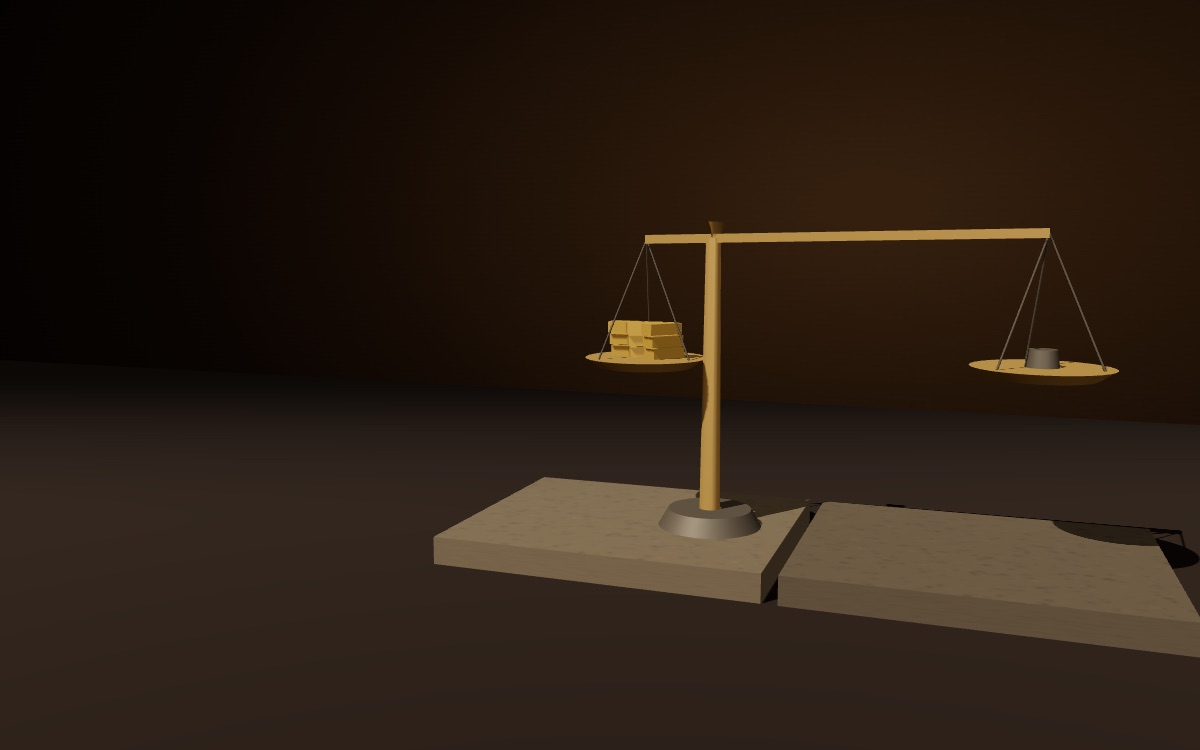
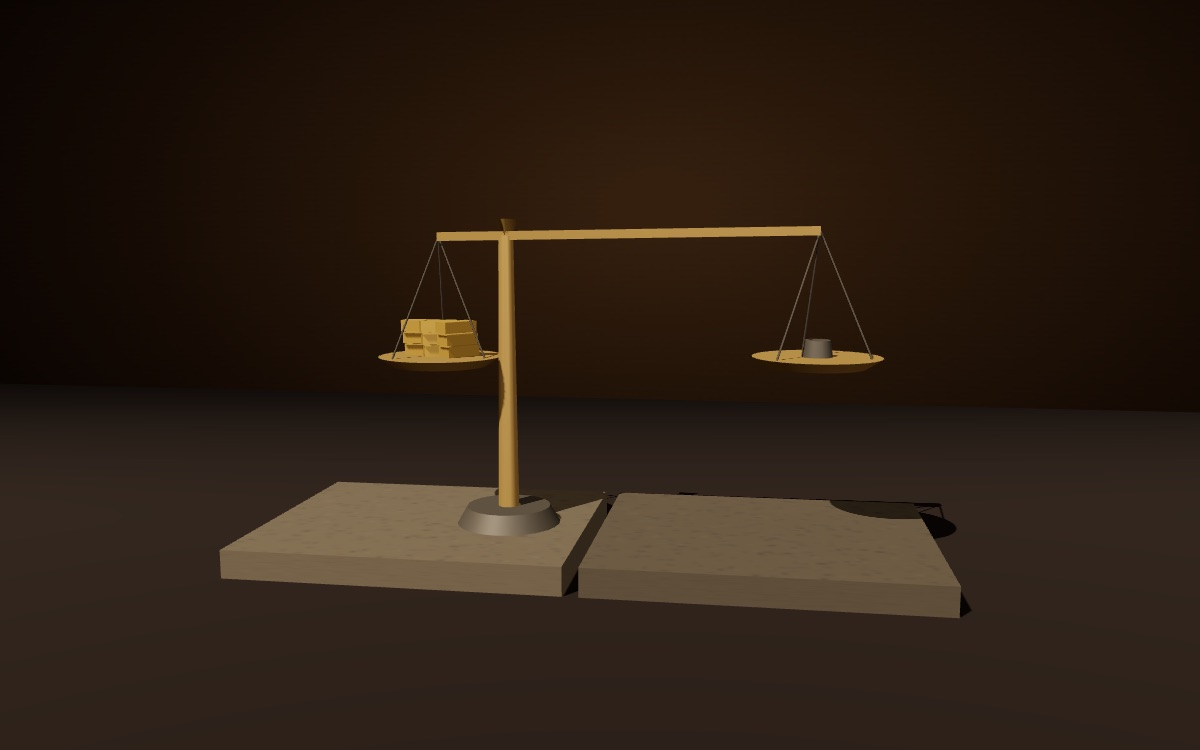
Glossaire : pouvoir-politique réécrite selon la charte, direction artistique « la Chambre des possédants »

Changed region(s): [[0.185, 0.276, 1.0, 0.8893], [0.8017, 0.4293, 0.925, 0.5213]]

diff --git a/glossaire/mondes/pouvoir-politique/essai.html b/glossaire/mondes/pouvoir-politique/essai.html
@@ -1,49 +1,94 @@
-<!-- L'ESSAI — le corps de /glossaire/pouvoir-politique. data-s="1" partout.
+<!-- L'ESSAI : le corps de /glossaire/pouvoir-politique. data-s="1" partout
+     (le Manifeste tient en une seule page Wikisource).
+     Réécrit en octobre 2026 selon glossaire/mondes/CHARTE.md.
      Deux phrases sont DÉLIBÉRÉMENT partagées avec /glossaire/lutte-des-classes :
      la définition du pouvoir politique et le « comité administratif ». Ce sont
-     les deux définitions de la notion, et la page les lit autrement — ici pour
-     ce qu'elles disent de l'État, là pour ce qu'elles disent de l'antagonisme.
-     La préface de 1872, La Guerre civile en France, les écrits sur la
-     dictature du prolétariat et l'Anti-Dühring ne sont pas servis :
-     paraphrasés et situés. -->
+     les deux définitions de la notion, et la page les lit pour ce qu'elles
+     disent de l'État, là pour ce qu'elles disent de l'antagonisme.
+     Sources des faits qui ne sont pas des citations liées :
+     - l'allemand du Manifeste (Staatsgewalt, gemeinschaftlichen Geschäfte der
+       ganzen Bourgeoisklasse, ausschließliche politische Herrschaft,
+       öffentliche / politische Gewalt) : de.wikisource, « Manifest der
+       Kommunistischen Partei (1848) », relu le 22 oct. 2026 ;
+     - la loi de dix heures (agitation depuis 1838, alliance des Tories,
+       Bright et Cobden, loi du 8 juin 1847, dix heures au 1er mai 1848, arrêt
+       de la cour de l'Échiquier du 8 février 1850) : Le Capital, ch. X, dans
+       le texte servi (section III) ;
+     - le cens de 1831 (200 F) et les 246 000 électeurs de 1847 : notice
+       « Suffrage censitaire » de Wikipédia ;
+     - la préface de 1872 et le premier décret de la Commune : Marxists
+       Internet Archive (préface de 1872 ; The Civil War in France, ch. V) ;
+     - le XVIII brumaire (la bureaucratie instrument de la classe dominante
+       sous Louis-Philippe, l'État qui « semble » indépendant sous Bonaparte,
+       la machine perfectionnée au lieu d'être brisée) : texte servi,
+       chapitre VII.
+     L'Anti-Dühring, La Guerre civile en France, la préface de 1872 et le
+     XVIII brumaire ne sont pas cités entre guillemets : paraphrasés. -->
 
 <section class="nt-sec" data-etape="arbitre" id="difficulte">
-<h2>L'arbitre qui n'en est pas un</h2>
-<p>L'État moderne se donne pour l'instance qui se tient au-dessus des intérêts particuliers&nbsp;: il fait les lois pour tous, garantit les droits de chacun, arbitre les conflits. Toute la difficulté de la notion est que le <i>Manifeste</i> ne conteste pas qu'il fasse tout cela, mais qu'il conteste qu'il le fasse depuis nulle part. La définition est donnée à la fin de la deuxième partie, et elle est d'une brièveté qui a fait sa fortune&nbsp;:</p>
+<h2>L'État n'est-il pas au-dessus des classes&nbsp;?</h2>
+<p class="nt-lead">C'est ainsi qu'il se présente&nbsp;: il fait la loi pour tous et tranche entre les intérêts. Le <i>Manifeste</i> lui oppose une définition de quelques mots, qui fait du pouvoir politique l'affaire d'une classe.</p>
+<p>L'État moderne se donne pour l'instance qui se tient au-dessus des intérêts particuliers. Il vote les lois, garantit les droits de chacun, juge les conflits, lève l'impôt au nom de tous. Le <i>Manifeste</i> lui accorde toutes ces fonctions et conteste seulement la place d'où il prétend les exercer. La définition arrive à la fin de la deuxième partie, «&nbsp;Prolétaires et communistes&nbsp;», et sa brièveté a fait sa fortune&nbsp;:</p>
 <blockquote data-s="1" data-q="Le pouvoir politique, à proprement parler, est le pouvoir organisé d’une classe pour l’oppression d’une autre"><p>Le pouvoir politique, à proprement parler, est le pouvoir organisé d’une classe pour l’oppression d’une autre.</p></blockquote>
-<p>Deux mots de la phrase portent l'argument. <i>À proprement parler</i>&nbsp;: le texte distingue le pouvoir politique du pouvoir public en général, c'est-à-dire de l'administration des affaires communes, que toute société un peu complexe exige. Ce qui est politique au sens strict, ce n'est pas qu'il y ait des règles et des gens pour les faire appliquer, c'est que cette fonction soit organisée au profit d'une classe contre une autre. <i>Organisé</i>, ensuite&nbsp;: le pouvoir d'une classe ne se réduit pas à la force ou à la richesse de ses membres pris un à un, il suppose une forme, des institutions, une permanence. Nous partirons de cette double précision, parce que c'est elle qui empêche de lire la définition comme une simple dénonciation.</p>
+<p>Deux expressions portent l'argument. La première est «&nbsp;à proprement parler&nbsp;». Le texte distingue le pouvoir politique du pouvoir public en général, c'est-à-dire de l'administration des affaires communes, que toute société un peu complexe exige&nbsp;: il faut des règles, des comptes, des routes, quelqu'un pour trancher. Ce qui rend ce pouvoir politique, au sens strict, c'est qu'il soit organisé au profit d'une classe contre une autre. L'allemand rend la distinction très visible. Il oppose <i lang="de">öffentliche Gewalt</i>, le pouvoir public, à <i lang="de">politische Gewalt</i>, et le mot <i lang="de">Gewalt</i> veut dire à la fois pouvoir, force et violence.</p>
+<p>La seconde expression est «&nbsp;organisé&nbsp;». Le pouvoir d'une classe ne se ramène pas à la richesse ou à la force de ses membres pris un à un. Il suppose des institutions, des fonctionnaires, une armée, une permanence. Cette double précision empêche de lire la définition comme une simple dénonciation. On la suivra dans l'ordre du texte&nbsp;: comment la bourgeoisie a conquis ce pouvoir, ce qu'elle en fait, pourquoi il lui arrive de céder, et ce que deviendrait le pouvoir une fois les classes abolies.</p>
 </section>
 
 <section class="nt-sec" data-etape="conquete" id="ou">
-<h2>Où le texte le pose&nbsp;: une conquête, et non une origine</h2>
-<p>Le pouvoir politique n'apparaît pas d'abord dans le <i>Manifeste</i> comme une définition, mais comme un enjeu de l'histoire de la bourgeoisie, et l'ordre est significatif. À chaque étape de son développement, la bourgeoisie a occupé une place politique différente — association se gouvernant elle-même dans la commune, tiers état taxable de la monarchie, contrepoids de la noblesse — jusqu'à ce que, depuis l'établissement de la grande industrie et du marché mondial, elle se soit <q data-s="1" data-q="enfin emparée du pouvoir politique">enfin emparée du pouvoir politique</q>, à l'exclusion des autres classes, dans l'État représentatif moderne. La phrase qui suit tire la conséquence&nbsp;:</p>
-<blockquote data-s="1" data-q="Le gouvernement moderne n’est qu’un comité administratif des affaires de la classe bourgeoise"><p>Le gouvernement moderne n’est qu’un comité administratif des affaires de la classe bourgeoise.</p></blockquote>
-<p>Le pouvoir est donc pris, et non donné&nbsp;: il a une histoire, et il suit celle de la production. Le texte en montre le ressort matériel un peu plus loin. En agglomérant les populations et en centralisant les moyens de production, la bourgeoisie a rendu nécessaire une concentration du pouvoir&nbsp;: <q data-s="1" data-q="La conséquence fatale de ces changements a été la centralisation politique">la conséquence fatale de ces changements a été la centralisation politique</q>, et des provinces jusque-là indépendantes ont été réunies en une seule nation, <q data-s="1" data-q="sous un seul gouvernement, une seule loi, un seul tarif douanier et un seul intérêt national de classe">sous un seul gouvernement, une seule loi, un seul tarif douanier et un seul intérêt national de classe</q>. La dernière expression condense toute la notion&nbsp;: l'intérêt est national par sa forme, il est de classe par son contenu.</p>
+<h2>Comment la bourgeoisie est-elle arrivée au pouvoir politique&nbsp;?</h2>
+<p class="nt-lead">Par une conquête, au terme d'une longue montée économique. Le <i>Manifeste</i> raconte cette histoire dans sa première partie, bien avant de donner sa définition.</p>
+<p>Le pouvoir politique apparaît d'abord dans le texte comme l'enjeu d'une histoire. À chaque étape de son développement économique, la bourgeoisie a occupé une place politique différente. Elle a été une association qui se gouvernait elle-même dans la commune du Moyen Âge, puis le tiers état que la monarchie taxait, puis le contrepoids de la noblesse dans les monarchies absolues. Depuis l'établissement de la grande industrie et du marché mondial, elle s'est <q data-s="1" data-q="enfin emparée du pouvoir politique">enfin emparée du pouvoir politique</q>, à l'exclusion des autres classes, dans l'État représentatif moderne. L'original allemand est plus net que la traduction&nbsp;: il parle d'une domination politique exclusive, <i lang="de">ausschließliche politische Herrschaft</i>.</p>
+<p>Le pouvoir a donc été pris, et il a suivi la production. Le texte en montre le ressort matériel un peu plus loin. En agglomérant les populations et en centralisant les moyens de production, la bourgeoisie a rendu nécessaire une concentration du pouvoir&nbsp;: <q data-s="1" data-q="La conséquence fatale de ces changements a été la centralisation politique">la conséquence fatale de ces changements a été la centralisation politique</q>. Des provinces qui avaient leurs lois et leurs douanes ont été réunies en une seule nation, <q data-s="1" data-q="sous un seul gouvernement, une seule loi, un seul tarif douanier et un seul intérêt national de classe">sous un seul gouvernement, une seule loi, un seul tarif douanier et un seul intérêt national de classe</q>. La dernière expression résume la notion. L'intérêt est national par sa forme, puisqu'il vaut pour tout le territoire, et il est de classe par son contenu.</p>
+<p>Le lecteur de 1848 avait sous les yeux un exemple de cet État représentatif. Sous la monarchie de Juillet, une loi de 1831 réservait le droit de vote aux hommes qui payaient au moins deux cents francs d'impôt direct&nbsp;: la France comptait environ 246&nbsp;000 électeurs en 1847. La Chambre que Daumier caricature en tête de cette page était élue par eux&nbsp;: ses députés représentaient la minorité qui payait le cens, c'est-à-dire surtout des possédants.</p>
 </section>
 
 <section class="nt-sec" data-etape="comite" id="distinction">
-<h2>La distinction&nbsp;: l'instrument et le comité</h2>
-<p>La phrase du comité a été lue de deux façons opposées, et la distinction qui fait le concept passe entre elles. La lecture courte en fait un instrument&nbsp;: l'État serait l'outil docile des capitalistes, qui le manieraient à leur guise. Or le texte ne dit pas cela, et la traduction de Laura Lafargue, sur ce point, affaiblit l'original. L'allemand parle d'un comité qui administre les affaires <i>communes</i> de <i>toute</i> la classe bourgeoise&nbsp;; Lafargue écrit simplement «&nbsp;les affaires de la classe bourgeoise&nbsp;». Les deux mots perdus sont décisifs.</p>
-<p>Un comité des affaires communes n'est pas l'agent d'un capitaliste particulier, ni même d'une fraction&nbsp;: il gère ce qui intéresse la classe dans son ensemble, et cela peut aller contre tel ou tel de ses membres. Les capitalistes sont en concurrence entre eux, ils ont des intérêts divergents selon les branches et les pays&nbsp;; ce qu'ils ont en commun — la propriété privée des moyens de production, le salariat, l'ordre qui les garantit — ne peut être assuré par aucun d'eux, et c'est à cette fonction que répond le pouvoir d'État. Le texte le montre sans le théoriser lorsqu'il note que la bourgeoisie <q data-s="1" data-q="vit dans un état de guerre perpétuelle">vit dans un état de guerre perpétuelle</q>, contre l'aristocratie, contre ses propres fractions, contre les bourgeoisies étrangères.</p>
-<p>La balance est donc bien construite, et c'est ce qui la rend crédible. Elle n'est pas truquée au sens où un plateau pèserait en secret&nbsp;: elle est montée de telle sorte que l'équilibre qu'elle affiche soit celui d'une classe. L'État n'est ni l'arbitre neutre qu'il prétend être, ni la marionnette qu'une critique pressée voudrait qu'il soit&nbsp;; il est l'organisation de l'intérêt commun d'une classe sous la forme d'un intérêt général.</p>
+<h2>Le gouvernement est-il l'instrument des capitalistes&nbsp;?</h2>
+<p class="nt-lead">Le texte dit «&nbsp;comité&nbsp;», et le mot compte. Le gouvernement gère les affaires que toute la classe a en commun, quitte à contrarier tel ou tel de ses membres.</p>
+<p>La phrase qui suit le récit de la conquête en tire la conséquence&nbsp;:</p>
+<blockquote data-s="1" data-q="Le gouvernement moderne n’est qu’un comité administratif des affaires de la classe bourgeoise"><p>Le gouvernement moderne n’est qu’un comité administratif des affaires de la classe bourgeoise.</p></blockquote>
+<p>On la lit souvent comme si l'État était l'outil docile des capitalistes, qui le manieraient à leur guise. La traduction de Laura Lafargue favorise cette lecture, parce qu'elle perd deux mots. L'allemand parle du pouvoir d'État moderne, <i lang="de">die moderne Staatsgewalt</i>, là où Lafargue écrit «&nbsp;le gouvernement&nbsp;», et il le décrit comme un comité qui administre les affaires <i>communes</i> de <i>toute</i> la classe bourgeoise. Ces deux mots changent le sens de la phrase.</p>
+<p>Un comité des affaires communes ne sert pas un capitaliste particulier, ni même une branche de l'industrie. Il gère ce qui intéresse la classe dans son ensemble. Or les capitalistes sont en concurrence les uns avec les autres, et leurs intérêts divergent d'une branche à l'autre et d'un pays à l'autre. Le texte le note en passant&nbsp;: la bourgeoisie <q data-s="1" data-q="vit dans un état de guerre perpétuelle">vit dans un état de guerre perpétuelle</q>, contre l'aristocratie, contre ses propres fractions, contre les bourgeoisies étrangères. Ce qu'ils ont en commun, la propriété des moyens de production, le salariat et l'ordre qui les protège, aucun d'eux ne peut le garantir seul. C'est à cette tâche que répond le pouvoir d'État.</p>
+<p>La balance de la scène, en bas de page, figure cette situation. Les poids y sont honnêtes&nbsp;; c'est la place du pivot qui fait de l'équilibre affiché celui d'une classe. L'État organise l'intérêt commun d'une classe sous la forme d'un intérêt général, et c'est parce qu'il ne sert aucun de ses membres en particulier qu'il peut se présenter comme l'arbitre de tous.</p>
 </section>
 
 <section class="nt-sec" data-etape="communes" id="mecanisme">
-<h2>Le mécanisme&nbsp;: gérer, c'est aussi concéder</h2>
-<p>Si l'État gère l'intérêt commun d'une classe, il peut avoir à imposer à cette classe ce que ses membres, un à un, refuseraient. Le <i>Manifeste</i> en donne l'exemple le plus parlant, en passant, à propos des luttes ouvrières&nbsp;: profitant des divisions entre bourgeois, l'organisation du prolétariat les oblige <q data-s="1" data-q="à donner une garantie légale à certains intérêts de la classe ouvrière">à donner une garantie légale à certains intérêts de la classe ouvrière</q>. La limitation légale de la journée de travail en Angleterre, que <i>Le Capital</i> étudiera longuement, est l'exemple type&nbsp;: une loi que les fabricants combattaient, et qui a pourtant servi la reproduction de la force de travail dont toute leur classe dépendait. On en trouvera l'histoire à la page des <a href="/glossaire/legislation-de-fabrique">Factory Acts</a>.</p>
-<p>Le pivot se déplace donc, et c'est ce qui fait la plasticité du pouvoir politique. Une concession n'est pas une neutralité retrouvée, mais une manière de maintenir l'équilibre général quand la pression de l'autre plateau augmente. Le texte ne dit pas que ces conquêtes sont illusoires&nbsp;; il dit qu'elles restent prises dans une forme qui les limite. C'est pourquoi, de la lutte économique, il fait nécessairement une lutte pour le pouvoir, et fixe aux communistes, comme à toutes les fractions du prolétariat, un but immédiat&nbsp;: <q data-s="1" data-q="conquête du pouvoir politique par le Prolétariat">conquête du pouvoir politique par le Prolétariat</q>.</p>
+<h2>Pourquoi un État bourgeois accorde-t-il des lois aux ouvriers&nbsp;?</h2>
+<p class="nt-lead">Parce que les bourgeois sont divisés, et que l'organisation ouvrière se sert de leurs divisions. Le <i>Manifeste</i> cite en exemple la loi de dix heures&nbsp;; <i>Le Capital</i> en racontera l'histoire.</p>
+<p>Si l'État gère l'intérêt commun d'une classe, il peut lui imposer ce que ses membres, un à un, refuseraient. Le <i>Manifeste</i> le montre à propos des luttes ouvrières. L'organisation des prolétaires est sans cesse défaite par la concurrence entre les ouvriers, mais elle se reforme, et elle trouve une prise dans les querelles de ses adversaires&nbsp;: <q data-s="1" data-q="Elle profite des divisions intestines des bourgeois">elle profite des divisions intestines des bourgeois</q> pour les obliger <q data-s="1" data-q="à donner une garantie légale à certains intérêts de la classe ouvrière, par exemple, la loi de dix heures de travail en Angleterre">à donner une garantie légale à certains intérêts de la classe ouvrière, par exemple, la loi de dix heures de travail en Angleterre</q>.</p>
+<div class="nt-ex">
+<p class="nt-ex-t">Un exemple&nbsp;: la loi de dix heures</p>
+<p>Marx en fait le récit au chapitre X du <a href="/oeuvres/capital-1/chapitre-10"><i>Capital</i></a>. Depuis 1838, les ouvriers des fabriques anglaises avaient fait de la journée de dix heures leur revendication économique, comme la Charte était leur revendication politique. En 1846, le Parlement abolit les lois sur les céréales, qui protégeaient le blé des grands propriétaires terriens&nbsp;: c'est une victoire des industriels sur l'aristocratie. Les conservateurs, les Tories, prennent leur revanche en soutenant le bill des dix heures, malgré l'opposition des libre-échangistes menés par Bright et Cobden. La loi du 8 juin 1847 limite la journée des adolescents et des ouvrières à onze heures, puis à dix heures à partir du 1er mai 1848.</p>
+<p>On voit ici la balance en mouvement. La loi est arrachée par une pression ouvrière, mais elle passe parce qu'une fraction des possédants y trouve son compte contre une autre. Elle sert aussi la classe industrielle dans son ensemble, qui épuisait la force de travail dont elle vit. Et elle reste fragile&nbsp;: les fabricants la contournent par un système de relais, et la cour de l'Échiquier, saisie d'une affaire le 8 février 1850, rend un arrêt qui la vide en pratique de son effet. La garantie légale est réelle, mais elle reste prise dans la forme qui l'a accordée.</p>
+</div>
+<p>Le pivot se déplace donc, et c'est ce qui fait la souplesse du pouvoir politique. Une concession maintient l'équilibre général quand la pression de l'autre plateau augmente. Le texte tient ces conquêtes pour réelles, et il en tire que la lutte économique ne peut pas rester économique&nbsp;: <q data-s="1" data-q="Mais toute lutte de classe est une lutte politique">mais toute lutte de classe est une lutte politique</q>. D'où le but immédiat qu'il fixe aux communistes comme à toutes les fractions du prolétariat&nbsp;: la <q data-s="1" data-q="conquête du pouvoir politique par le Prolétariat">conquête du pouvoir politique par le Prolétariat</q>.</p>
 </section>
 
 <section class="nt-sec" data-etape="extinction" id="ouvre">
-<h2>Ce que le concept ouvre&nbsp;: un pouvoir qui perd son caractère politique</h2>
-<p>La conquête du pouvoir n'est pas pensée comme une fin, mais comme un passage, et c'est là que la définition du pouvoir politique produit tous ses effets. Le texte décrit d'abord une étape&nbsp;: <q data-s="1" data-q="la constitution du prolétariat en classe régnante, la conquête du pouvoir public par la démocratie">la constitution du prolétariat en classe régnante, la conquête du pouvoir public par la démocratie</q>. Le prolétariat se servira de sa suprématie politique pour arracher peu à peu le capital à la bourgeoisie et <q data-s="1" data-q="pour centraliser tous les instruments de production dans les mains de l’État, c’est-à-dire du prolétariat organisé en classe régnante">pour centraliser tous les instruments de production dans les mains de l'État, c'est-à-dire du prolétariat organisé en classe régnante</q>. Le texte ne dissimule pas que cela passe par des mesures qui sont <q data-s="1" data-q="une violation despotique des droits de propriété">une violation despotique des droits de propriété</q>.</p>
-<p>Mais la définition interdit que ce pouvoir se perpétue. Si le pouvoir politique est l'organisation d'une classe contre une autre, alors une classe qui abolit les conditions de l'antagonisme abolit du même coup la raison d'être de son propre pouvoir. Le texte le dit dans le même paragraphe que la définition&nbsp;: les antagonismes de classes une fois disparus, <q data-s="1" data-q="le pouvoir public perd son caractère politique">le pouvoir public perd son caractère politique</q>&nbsp;; et le prolétariat, en détruisant les anciens rapports de production, <q data-s="1" data-q="il détruit les classes en général et, par là, sa propre domination comme classe">détruit les classes en général et, par là, sa propre domination comme classe</q>. Il reste un pouvoir public — l'administration de la production associée — mais il n'est plus politique au sens strict, puisqu'il n'y a plus de classe à opprimer.</p>
-<p>Le texte de 1848 ne dit rien de plus, et les ajouts ultérieurs de ses auteurs doivent être signalés comme tels. Dans la préface à l'édition allemande de 1872, écrite après la Commune de Paris, Marx et Engels notent que le programme a vieilli sur un point&nbsp;: la Commune a montré que la classe ouvrière ne peut pas se contenter de prendre possession de l'appareil d'État tel quel et de le faire fonctionner pour son compte. Engels écrira plus tard, dans l'<i>Anti-Dühring</i>, que l'État n'est pas aboli mais qu'il s'éteint. Ces précisions déplacent l'accent, de la conquête vers la transformation de la machine elle-même&nbsp;; elles ne changent pas la définition.</p>
+<h2>Que devient le pouvoir politique une fois conquis par le prolétariat&nbsp;?</h2>
+<p class="nt-lead">Il sert d'abord à transformer la propriété. Puis, les classes une fois disparues, il perd son caractère politique&nbsp;: il reste une administration publique, sans classe à opprimer.</p>
+<p>Le texte décrit d'abord une étape&nbsp;: <q data-s="1" data-q="la constitution du prolétariat en classe régnante, la conquête du pouvoir public par la démocratie">la constitution du prolétariat en classe régnante, la conquête du pouvoir public par la démocratie</q>. Le prolétariat se servira de sa suprématie politique pour retirer peu à peu le capital à la bourgeoisie, et <q data-s="1" data-q="pour centraliser tous les instruments de production dans les mains de l’État, c’est-à-dire du prolétariat organisé en classe régnante">pour centraliser tous les instruments de production dans les mains de l’État, c’est-à-dire du prolétariat organisé en classe régnante</q>. Le texte ne cache pas que cela passe par <q data-s="1" data-q="une violation despotique des droits de propriété">une violation despotique des droits de propriété</q>. Suit une liste de dix mesures, parmi lesquelles un impôt fortement progressif et la centralisation du crédit dans une banque d'État.</p>
+<p>La définition interdit pourtant que ce pouvoir se perpétue. Si le pouvoir politique est l'organisation d'une classe contre une autre, une classe qui supprime les conditions de l'antagonisme supprime du même coup la raison d'être de son propre pouvoir. Le texte le dit dans le paragraphe même où il définit le pouvoir politique&nbsp;: les antagonismes de classes une fois disparus, <q data-s="1" data-q="le pouvoir public perd son caractère politique">le pouvoir public perd son caractère politique</q>. En détruisant les anciens rapports de production, le prolétariat <q data-s="1" data-q="il détruit les classes en général et, par là, sa propre domination comme classe">détruit les classes en général et, par là, sa propre domination comme classe</q>. Il reste un pouvoir public, l'administration de la production associée. Il n'est plus politique au sens strict, puisqu'il n'a plus de classe à tenir.</p>
+<p>Le texte de 1848 s'arrête là, et les ajouts de ses auteurs doivent être signalés comme tels. Dans la préface à l'édition allemande de 1872, Marx et Engels écrivent que le programme a vieilli sur certains points. La Commune de Paris, où le prolétariat a tenu le pouvoir politique pendant deux mois, a montré que la classe ouvrière ne peut pas se contenter de prendre possession de l'appareil d'État tout prêt et de le faire fonctionner pour son propre compte. Marx l'avait développé l'année précédente dans <i>La Guerre civile en France</i>&nbsp;: le premier décret de la Commune, relève-t-il, a supprimé l'armée permanente pour la remplacer par le peuple en armes. Le décret du 29 mars 1871, reproduit ci-dessous, abolit la conscription et interdit toute autre force militaire que la garde nationale dans Paris.</p>
+<div data-planche="commune"></div>
+<p>Engels reprendra la question dans l'<i>Anti-Dühring</i> (1878)&nbsp;: l'État, écrit-il en substance, n'est pas aboli, il s'éteint. Ces précisions déplacent l'accent, de la conquête du pouvoir vers la transformation de la machine elle-même. Elles laissent la définition intacte.</p>
 </section>
 
 <section class="nt-sec" data-etape="lectures" id="lectures">
-<h2>Les lectures et les contresens</h2>
-<p>Le premier contresens est celui de l'instrument, et nous avons dit pourquoi le texte ne le soutient pas&nbsp;: un comité des affaires communes n'est pas l'outil d'une volonté privée, et c'est précisément parce qu'il ne l'est pas qu'il peut imposer des lois contraires aux intérêts immédiats de ceux qu'il sert. La lecture instrumentale rend d'ailleurs incompréhensible ce qu'elle voudrait dénoncer&nbsp;: si l'État n'était qu'un outil, on ne verrait pas pourquoi il aurait besoin de se présenter comme l'arbitre de tous.</p>
-<p>Le deuxième attribue au <i>Manifeste</i> la «&nbsp;dictature du prolétariat&nbsp;». L'expression n'y figure pas. Marx l'emploie à partir de 1850, dans <i>Les Luttes de classes en France</i>, puis dans la lettre à Weydemeyer de 1852 et dans la <i>Critique du programme de Gotha</i>&nbsp;; le texte de 1848 parle de classe régnante, de conquête de la démocratie et de mesures despotiques. Le rapprochement est légitime, puisqu'il s'agit du même passage transitoire, mais il faut le faire en connaissance de cause plutôt que prêter au texte un mot qu'il n'a pas.</p>
-<p>Le troisième contresens tire de la définition un mépris de la politique, comme si, l'État n'étant qu'un pouvoir de classe, il n'y avait rien à y faire. Le texte dit l'inverse avec insistance&nbsp;: toute <a href="/glossaire/lutte-des-classes">lutte de classe</a> est une lutte politique, le premier but est la conquête du pouvoir, et la quatrième partie consacre ses pages à la tactique des communistes vis-à-vis des partis d'opposition de chaque pays. Nous tenons que la définition ne conduit pas à se détourner de l'État, mais à le prendre au sérieux&nbsp;: c'est parce que le pouvoir politique organise une domination qu'il est l'enjeu de toute lutte qui prétend en finir avec elle. On lira, à la page des <a href="/glossaire/idees-dominantes">idées dominantes</a>, comment la même domination se prolonge dans ce que la société tient pour vrai.</p>
+<h2>Comment lire cette définition, et quels contresens éviter&nbsp;?</h2>
+<p class="nt-lead">Marx l'a lui-même mise à l'épreuve d'un cas difficile, la France de Bonaparte. Trois contresens courants se corrigent en relisant le texte de 1848.</p>
+<p>Quatre ans après le <i>Manifeste</i>, <a href="/oeuvres/18-brumaire#partie=8"><i>Le XVIII brumaire de Louis Bonaparte</i></a> (1852) examine un État qui semble démentir la définition. Sous Louis-Philippe, écrit Marx au dernier chapitre, la bureaucratie était l'instrument de la classe dominante. Sous le second Bonaparte, l'État paraît avoir acquis une indépendance complète, au point qu'un aventurier suffit à le conduire. Marx ajoute aussitôt que ce gouvernement repose sur une classe, la plus nombreuse de France, celle des paysans parcellaires. Il note aussi que les révolutions successives ont perfectionné la machine gouvernementale au lieu de la briser&nbsp;: c'est l'idée que la préface de 1872 reprendra. Le livre maintient donc la définition, en montrant qu'un État peut paraître indépendant de toutes les classes tout en reposant sur l'une d'elles.</p>
+<p>Nous tenons que la définition du <i>Manifeste</i> sert d'abord à prendre l'État au sérieux. C'est parce que le pouvoir politique organise une domination qu'il est l'enjeu de toute lutte qui prétend en finir avec elle. On lira, à la page des <a href="/glossaire/idees-dominantes">idées dominantes</a>, comment la même domination se prolonge dans ce que la société tient pour vrai, et à celle de la <a href="/glossaire/legislation-de-fabrique">législation de fabrique</a> le détail des lois que l'État anglais a dû concéder.</p>
+<div class="nt-cs">
+<p><span class="nt-cs-k">On lit souvent</span> L'État serait l'instrument docile des capitalistes, un outil qu'ils manieraient à leur guise.</p>
+<p><span class="nt-cs-k">Ce que dit le texte</span> Il parle d'un comité des affaires communes de toute la classe, ce que l'allemand dit en toutes lettres. Ce comité peut imposer des lois contraires aux intérêts immédiats de certains capitalistes, comme la loi de dix heures. Si l'État n'était qu'un outil, on ne comprendrait pas pourquoi il a besoin de se présenter comme l'arbitre de tous.</p>
+</div>
+<div class="nt-cs">
+<p><span class="nt-cs-k">On lit souvent</span> Le <i>Manifeste</i> prônerait la «&nbsp;dictature du prolétariat&nbsp;».</p>
+<p><span class="nt-cs-k">Ce que dit le texte</span> L'expression n'y figure pas. Marx l'emploie à partir de 1850, dans <i>Les Luttes de classes en France</i>, puis dans la lettre à Weydemeyer de 1852 et dans la <i>Critique du programme de Gotha</i> (1875). Le texte de 1848 parle de classe régnante, de conquête de la démocratie et de mesures despotiques. Le rapprochement est permis, puisqu'il s'agit du même passage, à condition de ne pas prêter au texte un mot qu'il n'emploie pas.</p>
+</div>
+<div class="nt-cs">
+<p><span class="nt-cs-k">On lit souvent</span> Puisque l'État n'est qu'un pouvoir de classe, il n'y aurait rien à y faire&nbsp;: la politique serait une affaire bourgeoise dont les ouvriers devraient se détourner.</p>
+<p><span class="nt-cs-k">Ce que dit le texte</span> Toute lutte de classe est une lutte politique, et le premier but fixé est la conquête du pouvoir. La quatrième partie du <i>Manifeste</i> est entièrement consacrée à la conduite des communistes envers les partis d'opposition de chaque pays.</p>
+</div>
 </section>

diff --git a/glossaire/mondes/pouvoir-politique/monde.js b/glossaire/mondes/pouvoir-politique/monde.js
@@ -185,10 +185,10 @@ window.LM_MONDE = function (canvas) {
     var cy = lerp(1.45, 1.1, st.depose), haut = lerp(0.9, 1.6, st.tour) * (1 - 0.35 * st.charge) + 0.5 * st.depose;
     var cible = new THREE.Vector3(lerp(FUT_X, milieu, 0.8), cy, 0);
     camera.position.set(cible.x + Math.sin(az) * dist + 0.03 * Math.sin(TT * 0.23), cy + haut + 0.02 * Math.sin(TT * 0.31), Math.cos(az) * dist);
-    var large = (canvas.clientWidth || 0) >= 1100;
-    var fwd = new THREE.Vector3().subVectors(cible, camera.position).normalize();
-    var right = new THREE.Vector3().crossVectors(fwd, UP).normalize();
-    aim.copy(cible).addScaledVector(right, large ? -0.2 * camera.position.distanceTo(cible) : 0);
+    /* la scène est une figure posée en bas de page (oct. 2026) : plus de
+       colonne de texte à dégager, on vise le sujet lui-même, à toutes les
+       largeurs (l'image fixe, photographiée à 1200 px, aussi). */
+    aim.copy(cible);
     camera.lookAt(aim);
     render();
   }
